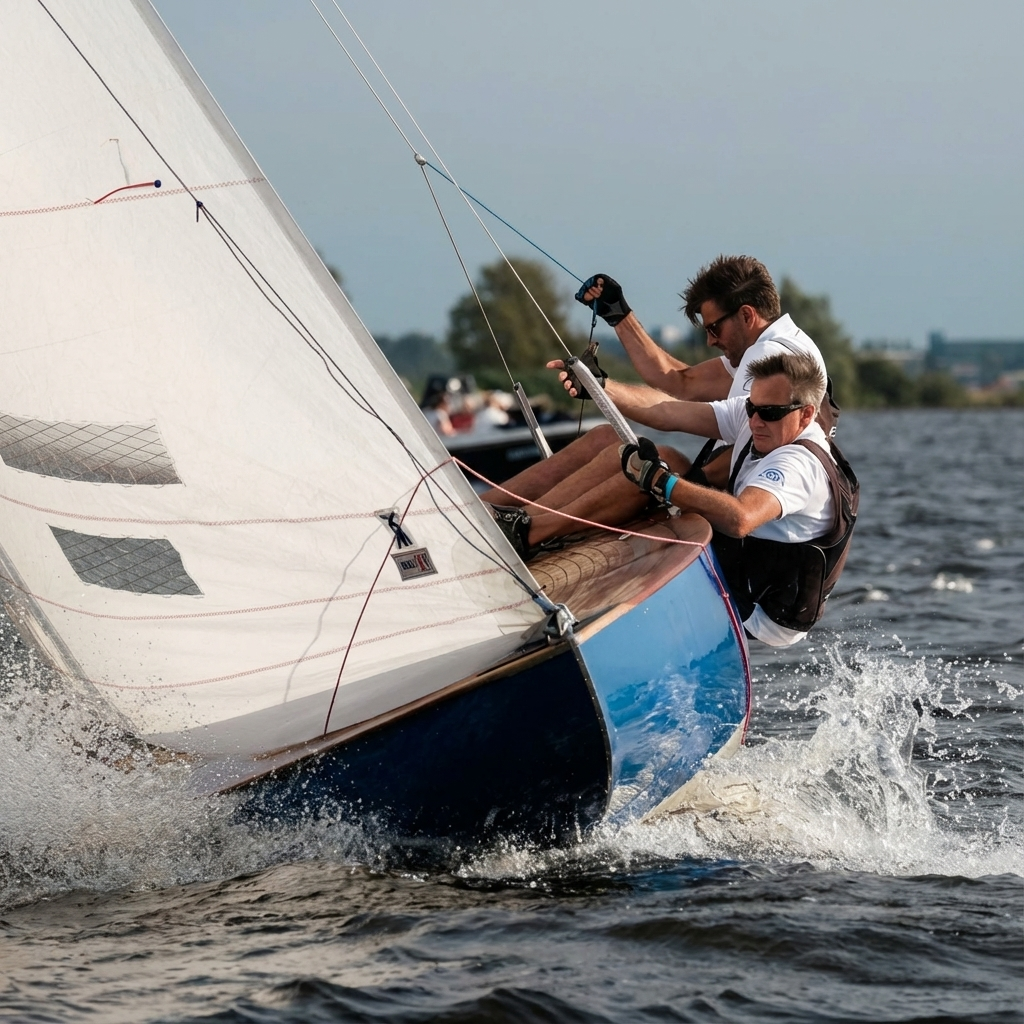
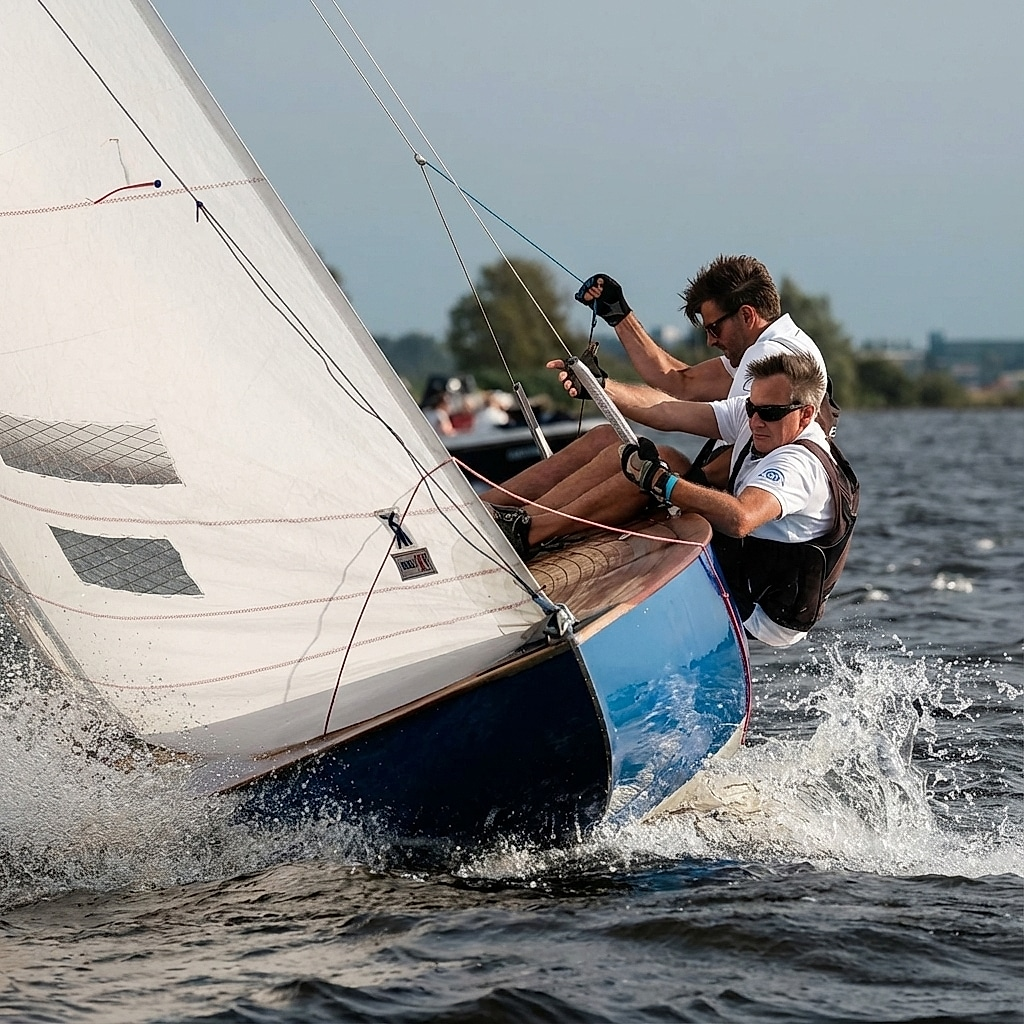
feat: sharpen all content images for crisp screen display
- Applied unsharp mask (sigma 1.0) to all content images
- Original files backed up in public/originals/
- Sharpen script saved for future use
- No resizing, reformatting or other changes made

diff --git a/sharpen-images.js b/sharpen-images.js
@@ -1,0 +1,105 @@
+/**
+ * Sharpen images script
+ * Uses sharp's unsharp mask to subtly sharpen photos
+ * ONLY sharpens - does NOT resize, reformat, or alter images in any other way
+ * 
+ * Originals are backed up to public/originals/ before processing
+ */
+
+import sharp from 'sharp';
+import { copyFile, mkdir } from 'fs/promises';
+import { existsSync } from 'fs';
+import path from 'path';
+
+// Only the main content images - NOT favicons or icons
+const IMAGES_TO_SHARPEN = [
+    'Profiel.png',
+    'Werk.png',
+    'Gezin.png',
+    'Hardlopen.png',
+    'Wedstrijdzeilen.png',
+    'share-image.jpg',
+];
+
+const PUBLIC_DIR = 'public';
+const BACKUP_DIR = 'public/originals';
+
+// Subtle sharpening settings - enough to make images crisp without artifacts
+// sigma: controls the radius of sharpening (1.0 = subtle, 2.0+ = aggressive)
+// flat: threshold for flat areas (higher = less sharpening in smooth areas)
+// jagged: threshold for edges (higher = less sharpening at edges)
+const SHARPEN_OPTIONS = {
+    sigma: 1.0,
+    flat: 1.0,
+    jagged: 2.0,
+};
+
+async function run() {
+    // Create backup directory
+    if (!existsSync(BACKUP_DIR)) {
+        await mkdir(BACKUP_DIR, { recursive: true });
+        console.log(`📁 Created backup directory: ${BACKUP_DIR}/`);
+    }
+
+    for (const filename of IMAGES_TO_SHARPEN) {
+        const inputPath = path.join(PUBLIC_DIR, filename);
+        const backupPath = path.join(BACKUP_DIR, filename);
+
+        if (!existsSync(inputPath)) {
+            console.log(`⚠  Skipping ${filename} - file not found`);
+            continue;
+        }
+
+        // Backup original (only if not already backed up)
+        if (!existsSync(backupPath)) {
+            await copyFile(inputPath, backupPath);
+            console.log(`💾 Backed up: ${filename} → originals/${filename}`);
+        } else {
+            console.log(`💾 Backup already exists for ${filename}, skipping backup`);
+        }
+
+        // Get original metadata
+        const meta = await sharp(inputPath).metadata();
+        console.log(`🔍 ${filename}: ${meta.width}x${meta.height} ${meta.format} ${meta.channels}ch`);
+
+        // Sharpen and save back - preserving exact format and dimensions
+        const image = sharp(inputPath);
+
+        // Apply unsharp mask for sharpening
+        image.sharpen(SHARPEN_OPTIONS);
+
+        // Save in the same format with high quality
+        if (meta.format === 'png') {
+            await image.png({ quality: 100, compressionLevel: 6 }).toFile(inputPath + '.tmp');
+        } else if (meta.format === 'jpeg') {
+            await image.jpeg({ quality: 95, mozjpeg: true }).toFile(inputPath + '.tmp');
+        }
+
+        // Verify dimensions haven't changed
+        const newMeta = await sharp(inputPath + '.tmp').metadata();
+        if (newMeta.width !== meta.width || newMeta.height !== meta.height) {
+            console.error(`❌ ERROR: Dimensions changed for ${filename}! Skipping.`);
+            const { unlink } = await import('fs/promises');
+            await unlink(inputPath + '.tmp');
+            continue;
+        }
+
+        // Replace original with sharpened version
+        await copyFile(inputPath + '.tmp', inputPath);
+        const { unlink } = await import('fs/promises');
+        await unlink(inputPath + '.tmp');
+
+        // Compare file sizes
+        const { stat } = await import('fs/promises');
+        const origSize = (await stat(backupPath)).size;
+        const newSize = (await stat(inputPath)).size;
+        const diff = ((newSize - origSize) / origSize * 100).toFixed(1);
+
+        console.log(`✅ Sharpened: ${filename} (${(origSize / 1024).toFixed(0)}KB → ${(newSize / 1024).toFixed(0)}KB, ${diff > 0 ? '+' : ''}${diff}%)`);
+    }
+
+    console.log('\n🎉 Done! All images sharpened. Originals backed up in public/originals/');
+    console.log('To restore originals: cp public/originals/* public/');
+}
+
+run().catch(console.error);
